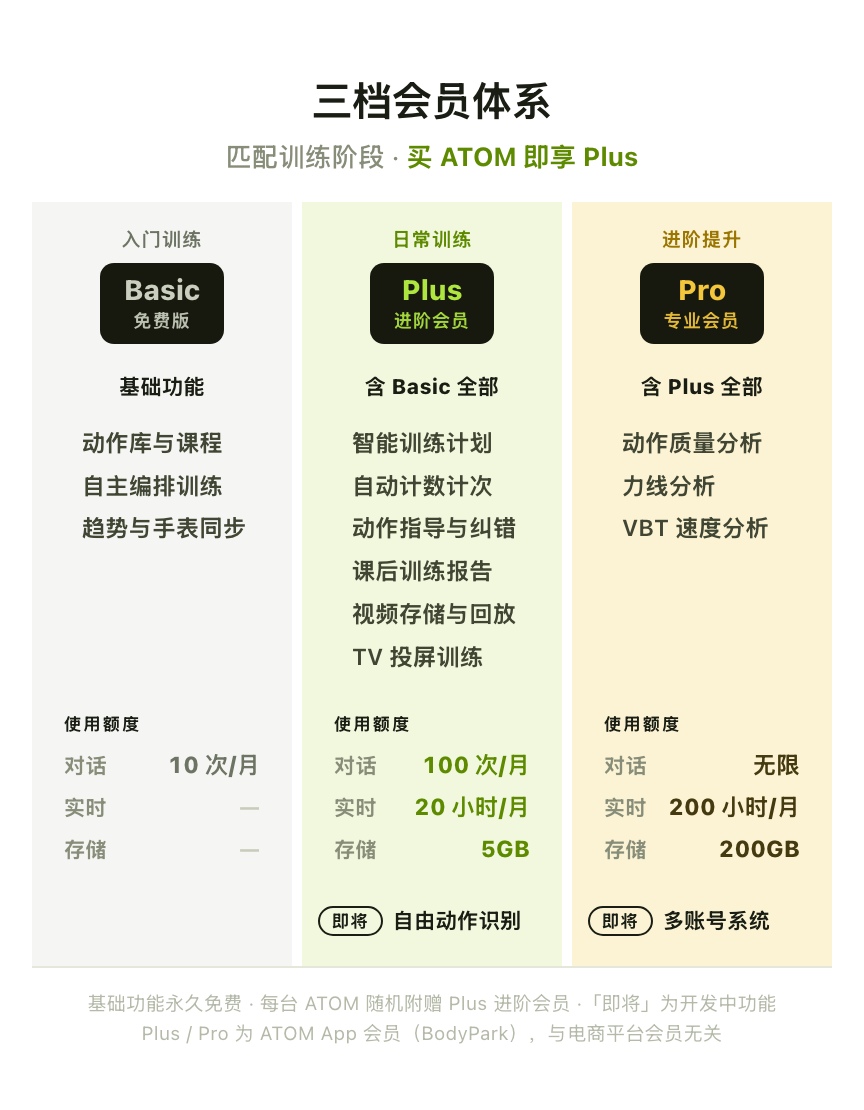
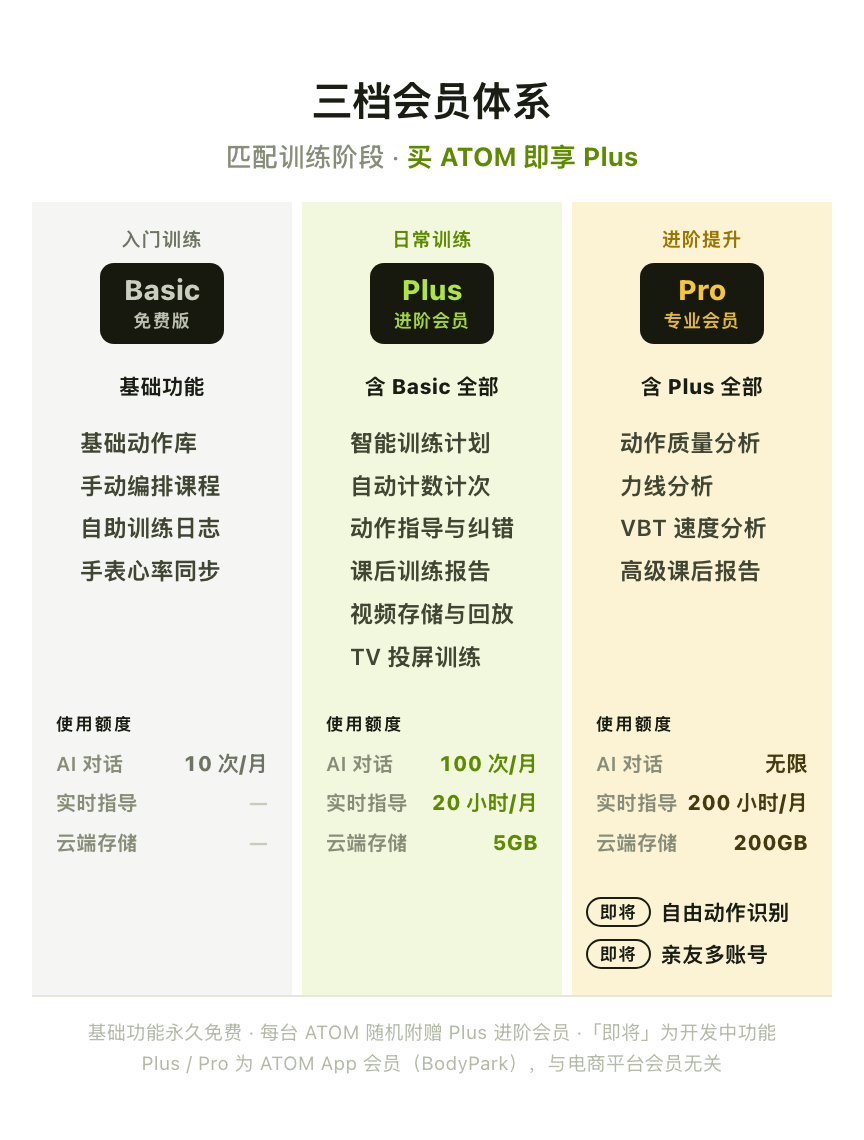
feat(simple): 更新 C 简洁版内容
- 多账号系统 → 亲友多账号
- Pro 增加「高级课后报告」
- 额度指标改名：对话→AI 对话、实时→实时指导、存储→云端存储
- Basic 拆成 4 项：基础动作库/手动编排课程/自助训练日志/手表心率同步
- 自由动作识别 + 亲友多账号 均移至 Pro（标即将），Plus 不再显示即将项
- 收字号/间距解决 Pro 用量行 1px 溢出，导出零溢出

diff --git a/charts/membership-simple.html b/charts/membership-simple.html
@@ -26,7 +26,7 @@
 
   /* horizontal bands: every cell in a band shares one row -> same height across columns */
   .cols { display: grid; grid-template-columns: repeat(3, 1fr); column-gap: 5px; row-gap: 0; }
-  .cell { padding: 0 8px; min-width: 0; }
+  .cell { padding: 0 7px; min-width: 0; }
   .cell.c1 { background: var(--t1); }
   .cell.c2 { background: var(--t2); }
   .cell.c3 { background: var(--t3); }
@@ -63,19 +63,19 @@
 
   /* band 4 — quota (same three metrics in every column -> row-by-row alignment) */
   .quota { padding-bottom: 11px; }
-  .quota .box { border-radius: 6px; padding: 9px 8px; }
+  .quota .box { border-radius: 6px; padding: 9px 5px; }
   .c1 .quota .box { background: var(--q1); } .c2 .quota .box { background: var(--q2); } .c3 .quota .box { background: var(--q3); }
   .quota .qh { font-size: 8.5px; font-weight: 800; letter-spacing: .12em; margin-bottom: 6px; }
   .c1 .quota .qh { color: var(--ink1); } .c2 .quota .qh { color: var(--ink2); } .c3 .quota .qh { color: var(--ink3d); }
-  .qline { display: flex; justify-content: space-between; align-items: baseline; gap: 6px; font-variant-numeric: tabular-nums; }
+  .qline { display: flex; justify-content: space-between; align-items: baseline; gap: 4px; font-variant-numeric: tabular-nums; }
   .qline + .qline { margin-top: 5px; }
-  .qline .qk { font-size: 10.5px; font-weight: 600; color: var(--muted); white-space: nowrap; }
-  .qline .qv { font-size: 11.5px; font-weight: 800; white-space: nowrap; }
+  .qline .qk { font-size: 10px; font-weight: 600; color: var(--muted); white-space: nowrap; }
+  .qline .qv { font-size: 10.5px; font-weight: 800; white-space: nowrap; }
   .c1 .qline .qv { color: var(--ink1); } .c2 .qline .qv { color: var(--ink2); } .c3 .qline .qv { color: var(--ink3d); }
   .qline .qv.off { color: var(--dash); font-weight: 600; }
 
   /* band 5 — coming soon */
-  .soonband { padding-bottom: 13px; min-height: 30px; }
+  .soonband { padding-bottom: 13px; min-height: 30px; display: flex; flex-direction: column; gap: 6px; }
   .soonband .s { display: flex; align-items: center; gap: 5px; font-size: 10.5px; font-weight: 700; line-height: 1.3; }
   .soonband .tag { font-size: 8.5px; font-weight: 800; letter-spacing: .06em;
     padding: 1px 6px; border-radius: 999px; border: 1px solid currentColor; flex-shrink: 0; }
@@ -95,19 +95,18 @@
 
   const D = {
     title: '三档会员体系', sub: '匹配训练阶段 · <b>买 ATOM 即享 Plus</b>',
-    quotaKeys: ['对话', '实时', '存储'],
+    quotaKeys: ['AI 对话', '实时指导', '云端存储'],
     cols: [
       { cls: 'c1', role: '入门训练', en: 'Basic', cn: '免费版', inh: '基础功能',
-        feats: ['动作库与课程', '自主编排训练', '趋势与手表同步'],
+        feats: ['基础动作库', '手动编排课程', '自助训练日志', '手表心率同步'],
         quota: ['10 次/月', null, null] },
       { cls: 'c2', role: '日常训练', en: 'Plus', cn: '进阶会员', inh: '含 Basic 全部',
         feats: ['智能训练计划', '自动计数计次', '动作指导与纠错', '课后训练报告', '视频存储与回放', 'TV 投屏训练'],
-        quota: ['100 次/月', '20 小时/月', '5GB'],
-        soon: '自由动作识别' },
+        quota: ['100 次/月', '20 小时/月', '5GB'] },
       { cls: 'c3', role: '进阶提升', en: 'Pro', cn: '专业会员', inh: '含 Plus 全部',
-        feats: ['动作质量分析', '力线分析', 'VBT 速度分析'],
+        feats: ['动作质量分析', '力线分析', 'VBT 速度分析', '高级课后报告'],
         quota: ['无限', '200 小时/月', '200GB'],
-        soon: '多账号系统' }
+        soon: ['自由动作识别', '亲友多账号'] }
     ],
     foot: '基础功能永久免费 · 每台 ATOM 随机附赠 Plus 进阶会员 ·「即将」为开发中功能<br>Plus / Pro 为 ATOM App 会员（BodyPark），与电商平台会员无关'
   };
@@ -132,9 +131,9 @@
     }).join('');
     cells += band(c.cls, 'quota', `<div class="box"><div class="qh">使用额度</div>${lines}</div>`);
   });
-  // band 5 — coming soon
+  // band 5 — coming soon (可多条)
   D.cols.forEach(c => cells += band(c.cls, 'soonband',
-    c.soon ? `<span class="s"><span class="tag">即将</span><span>${c.soon}</span></span>` : ''));
+    (c.soon || []).map(s => `<span class="s"><span class="tag">即将</span><span>${s}</span></span>`).join('')));
 
   document.getElementById('charts').innerHTML = `
     <div class="chart-wrap"><span class="chart-cap">国内版 · 简洁</span>